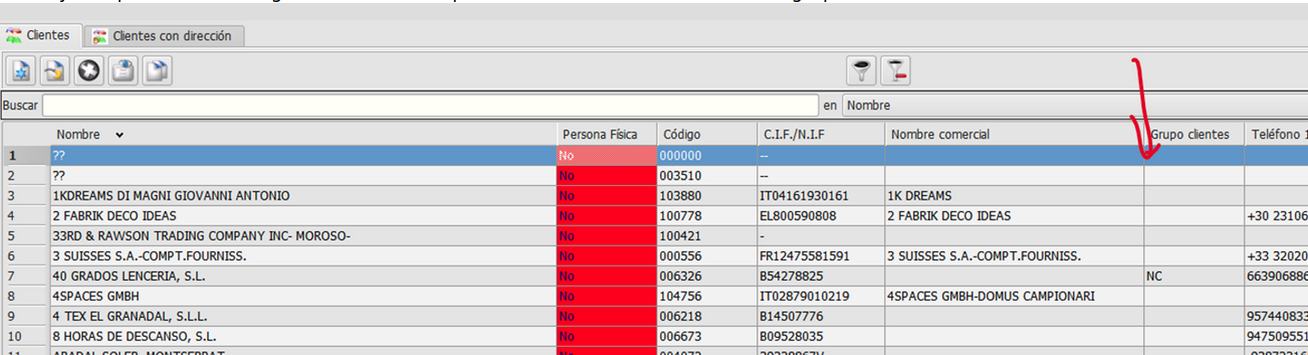
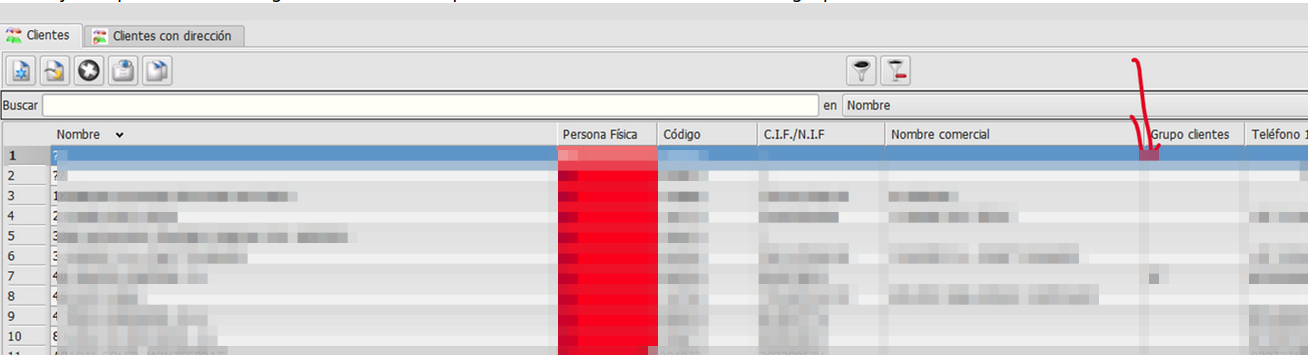
feat(H4053)  #SPRINT 2024 #P0086 - Unidad de Negocio

diff --git a/propuestas/EUR_H4053/EUR_H4053.md b/propuestas/EUR_H4053/EUR_H4053.md
@@ -13,9 +13,11 @@ Jose
 ### Pantalla de Clientes
 
 + En el maestro de clientes (grid) reposicionaremos el campo *Unidad de negocio* justo antes del datos *Grupo clientes*
+
 ![imagen](./img/EUR_H4053_maestro_clientes.png)
 
 + En el formulario que se muestra al pulsar sobre el embudo, añadiremos el filtro *Unidad de negocio* relacionado con tabla *Unidades de negocio*
+
 ![imagen](./img/EUR_H4053_filtro_clientes.png)
 
 ### Pantalla de Clientes con direccion
@@ -26,9 +28,11 @@ Jose
 ### Filtro de informes de Estadísticas de Venta
 Añadiremos a la pestaña de *Criterios de búsqueda* los siguientes controles:
 + Unidad de Negocio: Relacionado con tabla *Unidades de negocio*, lo añadiremos justo debajo del campo de *Cliente*
+
 ![imagen](./img/EUR_H4053_filtro_estadisticas.png)
 
 + En el maestro de Estadísticas de venta debe posiconarse justo delante del *Tamaño*
+
 ![imagen](./img/EUR_H4053_maestro_estadisticas.png)
 
 
@@ -143,8 +147,17 @@ Añadiremos los mismos botones de filtro ![imagen](./img/EUR_H4053_botones_filtr
 No hay notas de desarrollo
 
 ## Tareas
-+ H___ ...
-(mismas que puntos de estructura)
++ H4053 Pantalla de clientes
++ H4053 Pantalla de clientes con dirección
++ H4053 Filtro de informes de Estadísticas de Venta
++ H4053 Filtro en pedidos de venta
++ H4053 Filtro en presupuestos de venta
++ H4053 Filtro en albaranes de venta
++ H4053 Filtro en informe de facturas (resumen)
++ H4053 Filtro en informe de facturas (detalle)
++ H4053 Filtro en facturas de venta
+
+
 
 ## Manual
 El manual constará de...
@@ -154,6 +167,6 @@ No es necesario manual
 No es necesaria.
 
 ## Presupuesto
-+ H___ Análisis X€
-+ H___ Desarrollo e instalación X€
-+ H___ Documentación X€
++ H4053 Análisis X€
++ H4053 Desarrollo e instalación X€
++ H4053 Documentación X€
